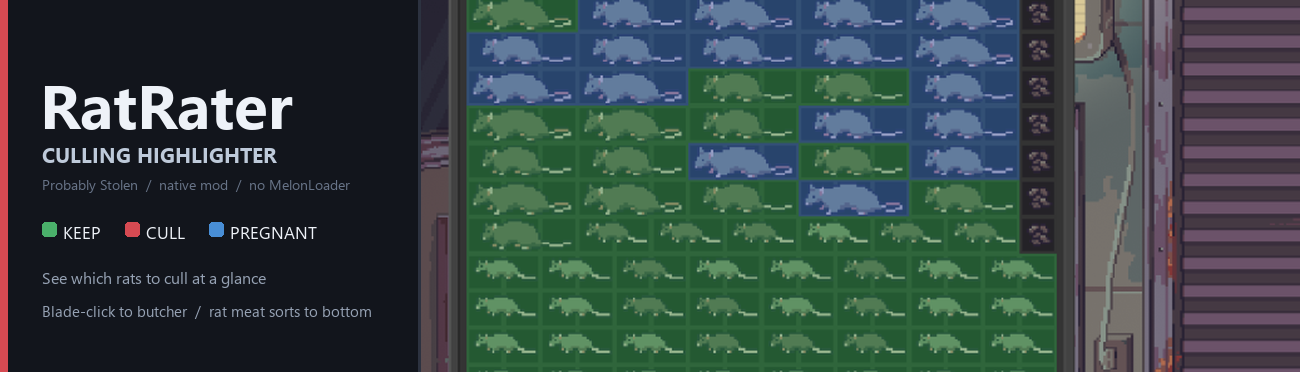
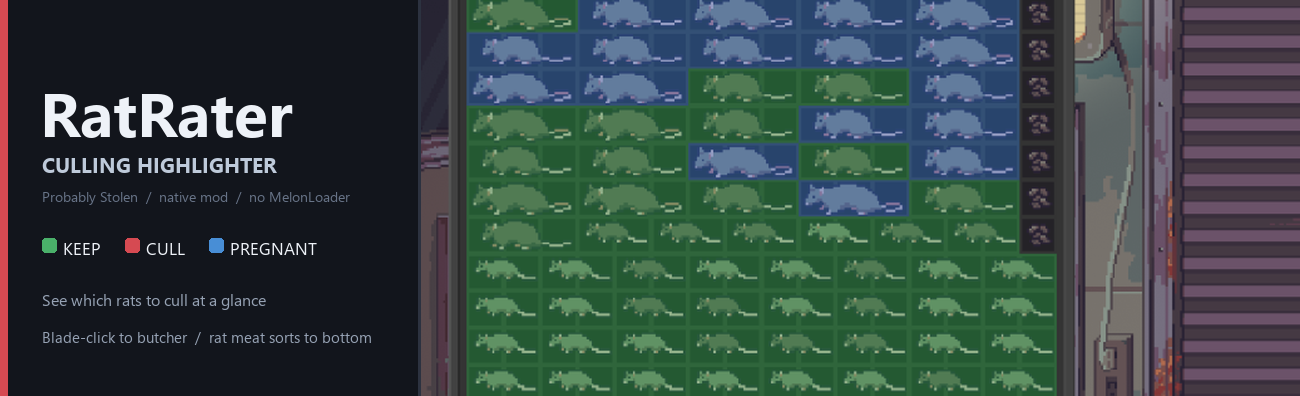
header 高度调到 396 铺满 Nexus 裁剪框
- Nexus 裁剪框实际比例约 3.3:1，推荐 1300x372 会在上下留棋盘格
- 改为 1300x396（同宽、比例 3.28:1），文字 y 坐标按比例下移，截图铺满无留白

diff --git a/RatRater/store-assets/compose.py b/RatRater/store-assets/compose.py
@@ -84,8 +84,8 @@ def save(im, name):
 
 
 def compose_header(cap):
-    # Nexus 推荐 1300x372，铺满不留白边
-    W, H = 1300, 372
+    # Nexus 推荐 1300x372，但其裁剪框实际约 3.3:1；用 1300x396 才能铺满不留棋盘格
+    W, H = 1300, 396
     im = Image.new("RGB", (W, H), BG)
     d = ImageDraw.Draw(im)
     d.rectangle((0, 0, 7, H - 1), fill=RED)
@@ -102,12 +102,12 @@ def compose_header(cap):
     im.paste(crop, (sx, 0))
     d.rectangle((sx - 2, 0, sx, H - 1), fill=BORDER)  # 分隔线
     tx = 40
-    d.text((tx, 62), "RatRater", font=font(62, True), fill=WHITE)
-    d.text((tx + 2, 140), "CULLING HIGHLIGHTER", font=font(21, True), fill=(190, 202, 218))
-    text_fit(d, tx + 2, 174, "Probably Stolen  /  native mod  /  no MelonLoader", 14, sx - tx - 40, DIM)
-    legend(d, tx + 2, 220, 24, 17, ("KEEP", "CULL", "PREGNANT"))
-    d.text((tx + 2, 266), "See which rats to cull at a glance", font=font(16), fill=MUTED)
-    d.text((tx + 2, 300), "Blade-click to butcher  /  rat meat sorts to bottom", font=font(15), fill=(150, 162, 180))
+    d.text((tx, 70), "RatRater", font=font(62, True), fill=WHITE)
+    d.text((tx + 2, 150), "CULLING HIGHLIGHTER", font=font(21, True), fill=(190, 202, 218))
+    text_fit(d, tx + 2, 186, "Probably Stolen  /  native mod  /  no MelonLoader", 14, sx - tx - 40, DIM)
+    legend(d, tx + 2, 236, 24, 17, ("KEEP", "CULL", "PREGNANT"))
+    d.text((tx + 2, 288), "See which rats to cull at a glance", font=font(16), fill=MUTED)
+    d.text((tx + 2, 326), "Blade-click to butcher  /  rat meat sorts to bottom", font=font(15), fill=(150, 162, 180))
     assert tx + 350 < sx, "text overlaps screenshot"
     save(im, "header.png")
 
